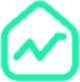
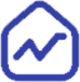
feat: add page

diff --git a/pages/tabbar/tabbar.vue b/pages/tabbar/tabbar.vue
@@ -10,6 +10,7 @@
 				<text class="tabbar-item-text" :class="{'tabbar-item-text-active':current === index}">{{item.text}}</text>
 			</view>
 		</view>
+		<view class="page-bg"></view>
 	</view>
 </template>
 
@@ -27,7 +28,7 @@
 				items: [
 					{
 						icon: require('../../static/tabbar_icon1@2x.png'),
-						selected_icon: require('../../static/tabbar_icon1@2x.png'),
+						selected_icon: require('../../static/tabbar_icon1_selected@2x.png'),
 						text: 'SWAPANT',
 						path: '/pages/index/index'
 					},
@@ -39,19 +40,19 @@
 					},
 					{
 						icon:  require('../../static/tabbar_icon3@2x.png'),
-						selected_icon:  require('../../static/tabbar_icon3@2x.png'),
+						selected_icon:  require('../../static/tabbar_icon3_selected@2x.png'),
 						text: '量化交易',
 						path: '/pages/index/index'
 					},
 					{
 						icon:  require('../../static/tabbar_icon4@2x.png'),
-						selected_icon:  require('../../static/tabbar_icon4@2x.png'),
+						selected_icon:  require('../../static/tabbar_icon4_selected@2x.png'),
 						text: '资产',
 						path: '/pages/index/index'
 					},
 					{
 						icon:  require('../../static/tabbar_icon5@2x.png'),
-						selected_icon: require('../../static/tabbar_icon5@2x.png'),
+						selected_icon: require('../../static/tabbar_icon5_selected@2x.png'),
 						text: '我的',
 						path: '/pages/index/index'
 					}

diff --git a/App.vue b/App.vue
@@ -14,4 +14,13 @@
 
 <style>
 	/*每个页面公共css */
+	.page-bg{
+		position: fixed;
+        top: 0;
+		left: 0;
+		width: 100%;
+		height: 100%;
+		background-color: #000;
+		z-index: -1;
+	}
 </style>

diff --git a/pages/index/index.vue b/pages/index/index.vue
@@ -5,7 +5,6 @@
 	 		<text class="title">{{title}}</text>
 	 	</view>
 	 </view>
-	
 </template>
 
 <script>
@@ -25,6 +24,7 @@
 </script>
 
 <style>
+	
 	.content {
 		display: flex;
 		flex-direction: column;
